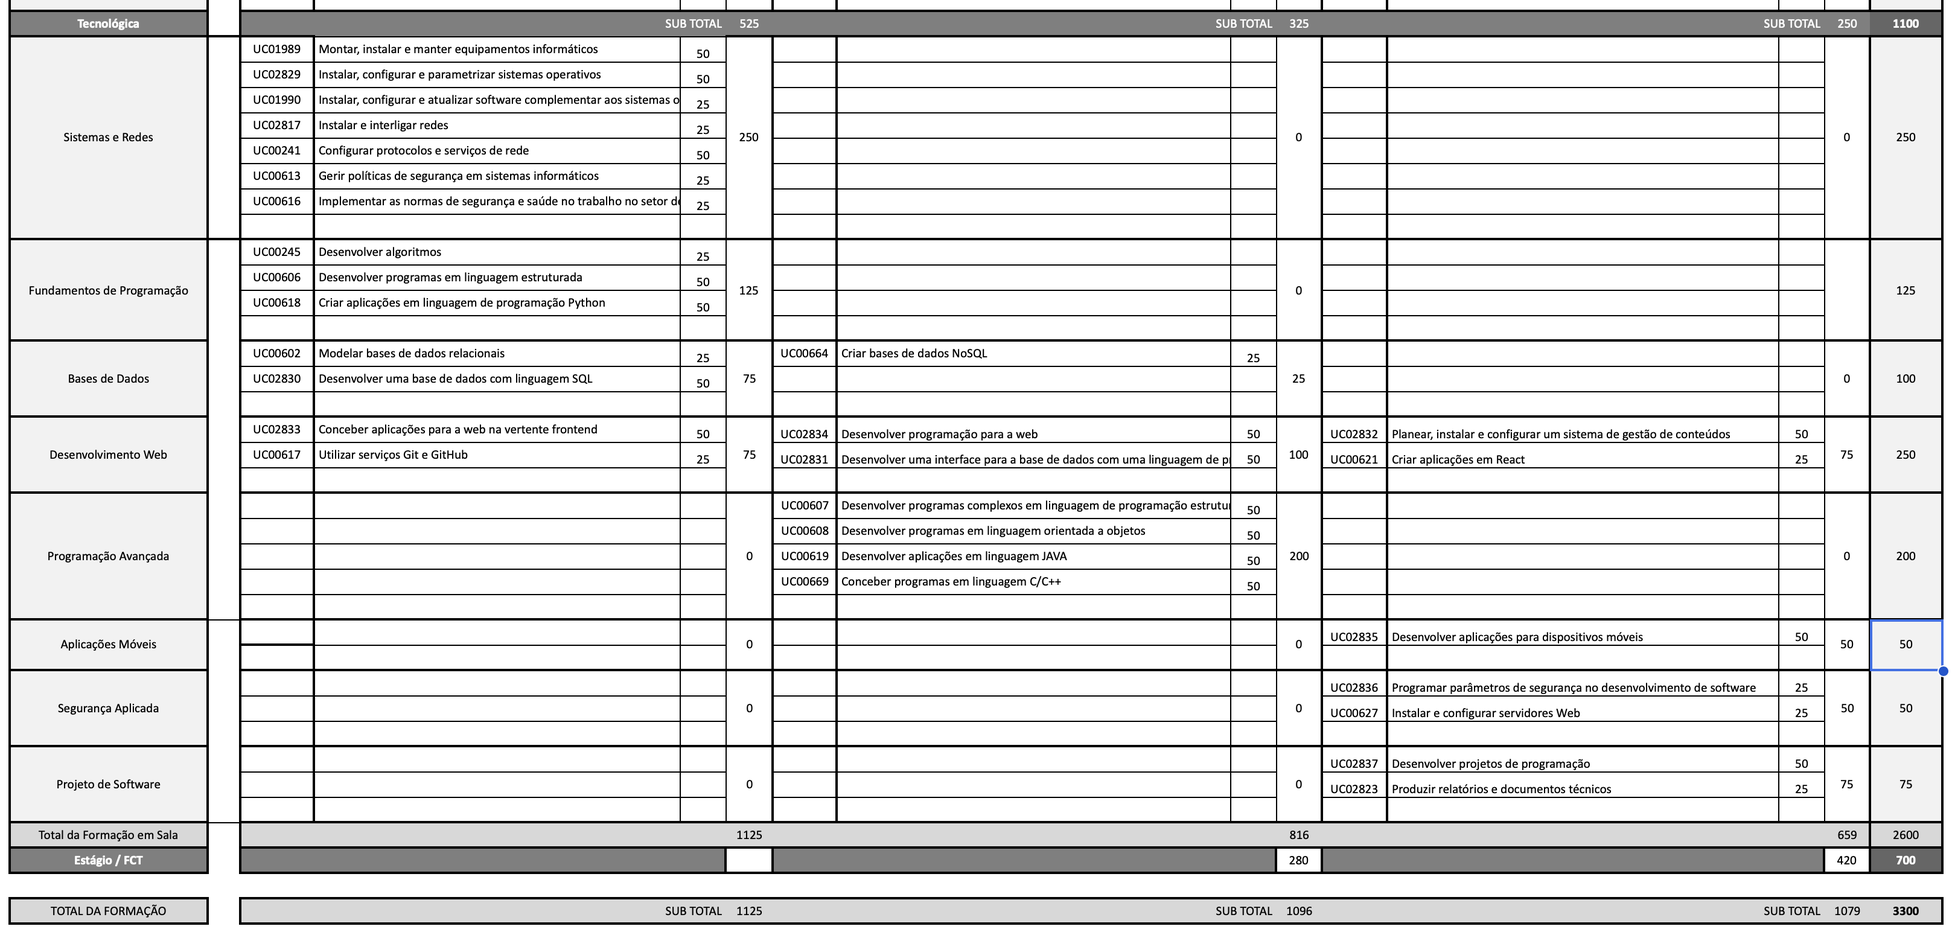
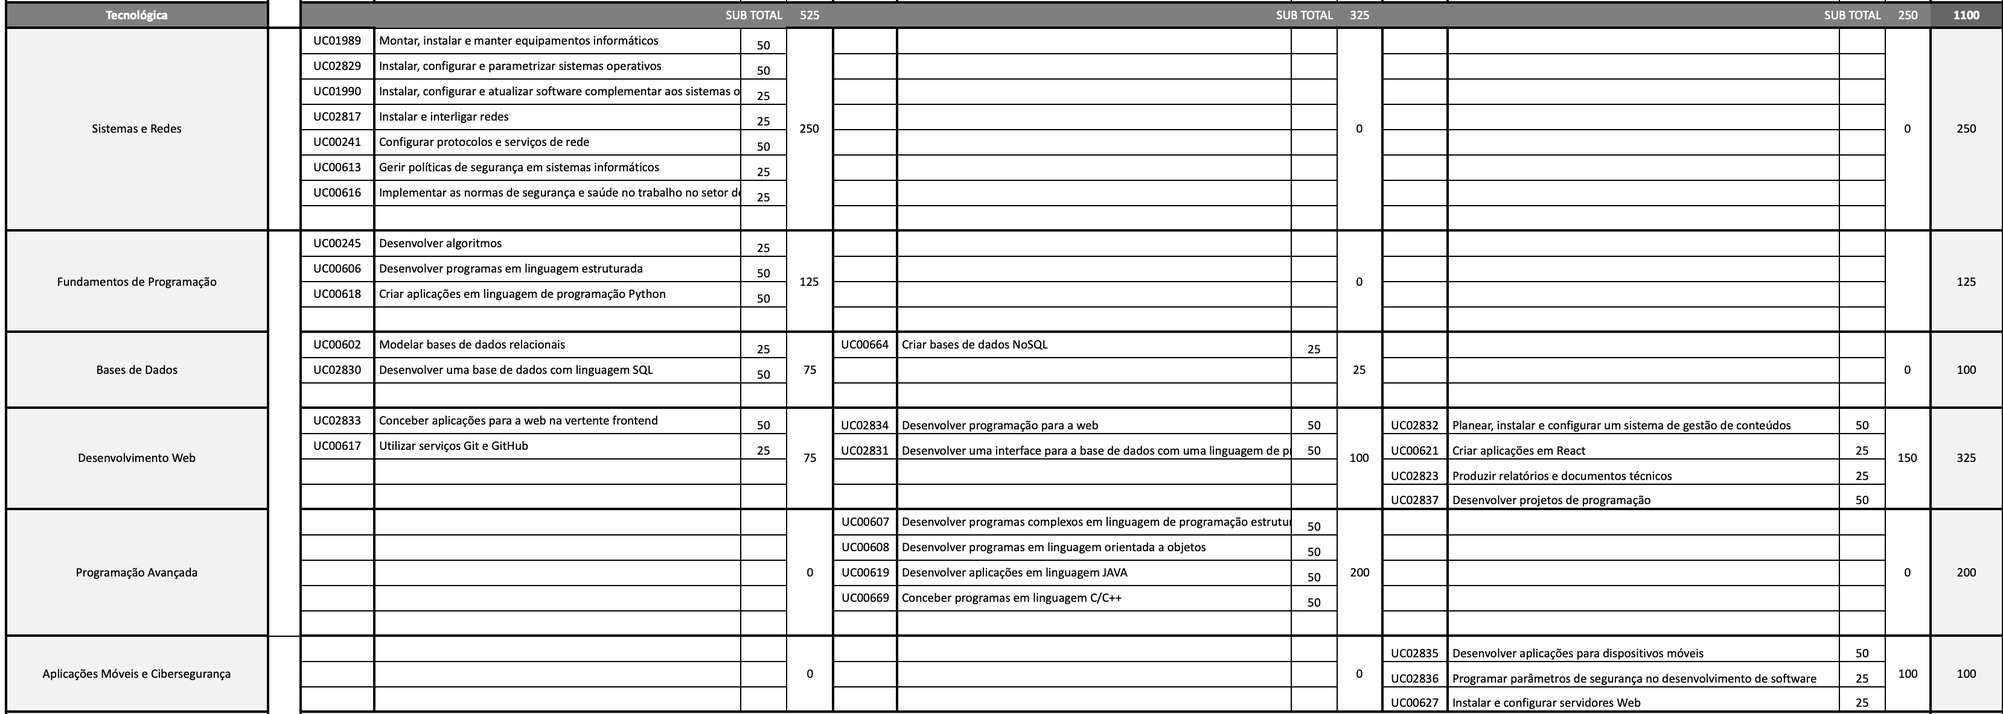
Update: Redução de disciplinas

Changed region(s): [[0.0, 0.0, 1.0, 1.0], [0.0312, 0.125, 0.0937, 0.1875]]

diff --git a/README.md b/README.md
@@ -33,21 +33,19 @@
 
 ## 3. Estrutura final proposta
 
-### 3.1) Visão global das 8 disciplinas novas
+### 3.1) Visão global das 6 disciplinas novas
 
 > Estas disciplinas vão substituir as atuais disciplinas de Programador de Informática.
 
-|        Nº | Disciplina                 | Horas totais | Sugestão de Professor \*      | Observação                                                          |
-| --------: | -------------------------- | -----------: | ----------------------------- | ------------------------------------------------------------------- |
-|         1 | Sistemas e Redes           |          250 | João Paulo                    | Disciplina apenas do 1.º ano, concentrando a base técnica           |
-|         2 | Fundamentos de Programação |          125 | Nuno Castro                   | Entrada progressiva em algoritmia e programação                     |
-|         3 | Bases de Dados             |          100 | Paulo Nabais / Carlos Coimbra | Disciplina vertical entre 1.º e 2.º ano                             |
-|         4 | Desenvolvimento Web        |          250 | Nuno Castro                   | Disciplina vertical entre 1.º, 2.º e 3.º ano                        |
-|         5 | Programação Avançada       |          200 | Nuno Castro                   | Consolidação de programação estruturada avançada, POO, Java e C/C++ |
-|         6 | Aplicações Móveis          |           50 | Paulo Nabais / Carlos Coimbra | Área autónoma no 3.º ano                                            |
-|         7 | Segurança Aplicada         |           50 | Nuno Castro                   | Codificação segura, publicação e operação web                       |
-|         8 | Projeto de Software        |           75 | Nuno Castro                   | Fecho do curso com projeto e documentação                           |
-| **Total** |                            |     **1100** |                               |                                                                     |
+|        Nº | Disciplina                                  | Horas totais | Sugestão de Professor \*      | Observação                                                          |
+| --------: | ------------------------------------------- | -----------: | ----------------------------- | ------------------------------------------------------------------- |
+|         1 | Sistemas e Redes                            |          250 | João Paulo                    | Disciplina apenas do 1.º ano, concentrando a base técnica           |
+|         2 | Fundamentos de Programação                  |          125 | Nuno Castro                   | Entrada progressiva em algoritmia e programação                     |
+|         3 | Bases de Dados                              |          100 | Paulo Nabais / Carlos Coimbra | Disciplina vertical entre 1.º e 2.º ano                             |
+|         4 | Desenvolvimento Web                         |          325 | Nuno Castro                   | Disciplina vertical entre 1.º, 2.º e 3.º ano, incluindo projeto     |
+|         5 | Programação Avançada                        |          200 | Nuno Castro                   | Consolidação de programação estruturada avançada, POO, Java e C/C++ |
+|         6 | Desenvolvimento Mobile e Segurança Aplicada |          100 | Nuno Castro                   | Especialização final em mobile, segurança e operação web            |
+| **Total** |                                             |     **1100** |                               |                                                                     |
 
 **\* Nota:** A Sugestão de Professor é feita com base nas disciplinas dadas no Curso de Programador de Informática.
 
@@ -55,7 +53,7 @@
 
 | Indicador               | Valor |
 | ----------------------- | ----: |
-| Nº total de disciplinas |     8 |
+| Nº total de disciplinas |     6 |
 | Nº total de UC          |    28 |
 | Horas totais            |  1100 |
 
@@ -84,13 +82,11 @@
 
 ### 4.3) 3.º ano - 250 horas
 
-| Disciplina          | Horas no ano |
-| ------------------- | -----------: |
-| Desenvolvimento Web |           75 |
-| Aplicações Móveis   |           50 |
-| Segurança Aplicada  |           50 |
-| Projeto de Software |           75 |
-| **Total**           |      **250** |
+| Disciplina                                  | Horas no ano |
+| ------------------------------------------- | -----------: |
+| Desenvolvimento Web                         |          150 |
+| Desenvolvimento Mobile e Segurança Aplicada |          100 |
+| **Total**                                   |      **250** |
 
 ---
 
@@ -156,11 +152,11 @@ O uso de **Python** no 1.º ano permite uma entrada mais acessível e didática,
 
 ### 5.4) Desenvolvimento Web
 
-- **Horas:** 250h
+- **Horas:** 325h
 - **Ano:** 1.º, 2.º e 3.º anos
-- **Objectivo:** Criar um eixo vertical de desenvolvimento web ao longo dos três anos, começando no front-end, avançando para programação web e integração com bases de dados, e fechando com CMS e React.
-- **Área da Disciplina:** Programação e desenvolvimento Web. Integração de Sistemas
-- **Descrição:** Disciplina vertical de desenvolvimento aplicacional orientada à web, cobrindo front-end, programação web, integração com bases de dados e gestão/publicação de conteúdos. Incorpora UC opcionais de Git/GitHub e React, reforçando práticas de colaboração e desenvolvimento front-end moderno.
+- **Objectivo:** Criar um eixo vertical de desenvolvimento web ao longo dos três anos, começando no front-end, avançando para programação web e integração com bases de dados, e fechando com CMS, React, projeto final e documentação técnica.
+- **Área da Disciplina:** Programação e desenvolvimento Web. Integração de Sistemas. Projeto aplicacional e documentação técnica
+- **Descrição:** Disciplina vertical de desenvolvimento aplicacional orientada à web, cobrindo front-end, programação web, integração com bases de dados, gestão/publicação de conteúdos, React, execução de projeto final e produção de documentação técnica. Incorpora UC opcionais de Git/GitHub e React, reforçando práticas de colaboração e desenvolvimento front-end moderno.
 
 | Ano       | Código             | UC                                                                              |   Horas |
 | --------- | ------------------ | ------------------------------------------------------------------------------- | ------: |
@@ -170,7 +166,9 @@ O uso de **Python** no 1.º ano permite uma entrada mais acessível e didática,
 | 2.º       | UC02831            | Desenvolver uma interface para a base de dados com uma linguagem de programação |      50 |
 | 3.º       | UC02832            | Planear, instalar e configurar um sistema de gestão de conteúdos                |      50 |
 | 3.º       | UC00621 (Opcional) | Criar aplicações em React                                                       |      25 |
-| **Total** |                    |                                                                                 | **250** |
+| 3.º       | UC02837            | Desenvolver projetos de programação                                             |      50 |
+| 3.º       | UC02823            | Produzir relatórios e documentos técnicos                                       |      25 |
+| **Total** |                    |                                                                                 | **325** |
 
 ---
 
@@ -192,99 +190,78 @@ O uso de **Python** no 1.º ano permite uma entrada mais acessível e didática,
 
 ---
 
-### 5.6) Aplicações Móveis
+### 5.6) Desenvolvimento Mobile e Segurança Aplicada
 
-- **Horas:** 50h
+- **Horas:** 100h
 - **Ano:** 3.º ano
-- **Objectivo:** Introdução ao desenvolvimento de aplicações móveis, para que os alunos tenham uma visão mais completa do desenvolvimento de software e possam explorar esta área em crescimento.
-- **Área da Disciplina:** Desenvolvimento Mobile (pode ser teórico ou teórico-prático uma vez que 50 horas é pouco para prática)
-- **Descrição:** Disciplina especializada do 3.º ano orientada para desenvolvimento de aplicações móveis, em linha com a UC obrigatória do referencial. Amplia o perfil do aluno para contextos multiplataforma e reforça a capacidade de adaptação a diferentes interfaces e dispositivos.
+- **Objectivo:** Concentrar competências finais de desenvolvimento mobile, segurança aplicada ao desenvolvimento de software e configuração de servidores web.
+- **Área da Disciplina:** Desenvolvimento Mobile, Cibersegurança Aplicada ao Desenvolvimento e Operação Web
+- **Descrição:** Disciplina especializada do 3.º ano, orientada para desenvolvimento de aplicações móveis e reforço de práticas de segurança no ciclo de desenvolvimento e publicação. Combina mobile, codificação segura e configuração de servidores web, aproximando o plano de contextos reais de desenvolvimento, entrega e operação de software.
 
-| Ano       | Código  | UC                                              |  Horas |
-| --------- | ------- | ----------------------------------------------- | -----: |
-| 3.º       | UC02835 | Desenvolver aplicações para dispositivos móveis |     50 |
-| **Total** |         |                                                 | **50** |
-
----
-
-### 5.7) Segurança Aplicada
-
-- **Horas:** 50h
-- **Ano:** 3.º ano
-- **Objectivo:** Trabalhar segurança no desenvolvimento de software e no contexto de publicação/operação de aplicações web.
-- **Área da Disciplina:** Programação, Cibersegurança Aplicada ao Desenvolvimento
-- **Descrição:** Disciplina focada em segurança aplicada, combinando práticas de codificação segura com configuração de servidores web. Responde às UC do referencial ligadas a segurança no ciclo de desenvolvimento e operação, aproximando o plano de exigências reais de produção.
-
-| Ano       | Código             | UC                                                               |  Horas |
-| --------- | ------------------ | ---------------------------------------------------------------- | -----: |
-| 3.º       | UC02836            | Programar parâmetros de segurança no desenvolvimento de software |     25 |
-| 3.º       | UC00627 (Opcional) | Instalar e configurar servidores Web                             |     25 |
-| **Total** |                    |                                                                  | **50** |
-
----
-
-### 5.8) Projeto de Software
-
-**Nota:** Optei por colocar o projeto (e a documentação) numa disciplina à parte para que o projeto não seja "contaminado" pela disciplina onde fosse inserido. Por exemplo, se fosse inserido na disciplina de Desenvolvimento Web, o projeto poderia ser visto como um projeto de desenvolvimento web, o que não é necessariamente o caso. Ou se fosse inserido na disciplina de Programação Avançada, poderia ser visto como um projeto de programação pura, o que também não é necessariamente o caso. Limitaria a visão do projeto a um domínio específico, o que não é desejável. Assim, a disciplina de Projeto de Software pode ser mais transversal e permitir projetos mais variados, além de dar um enfoque específico à documentação técnica, que é uma competência importante a evidenciar.
-
-- **Horas:** 75h
-- **Ano:** 3.º ano
-- **Objectivo:** Fechar o curso com projeto, integração de competências e produção de documentação técnica adequada ao contexto profissional.
-- **Área da Disciplina:** Projeto de Software
-- **Descrição:** Disciplina de fecho do percurso, com enfoque em execução de projeto de programação e comunicação técnica formal. Está alinhada com o referencial ao assegurar evidência integrada de competências técnicas e de documentação profissional.
-
-| Ano       | Código  | UC                                        |  Horas |
-| --------- | ------- | ----------------------------------------- | -----: |
-| 3.º       | UC02837 | Desenvolver projetos de programação       |     50 |
-| 3.º       | UC02823 | Produzir relatórios e documentos técnicos |     25 |
-| **Total** |         |                                           | **75** |
+| Ano       | Código             | UC                                                               |   Horas |
+| --------- | ------------------ | ---------------------------------------------------------------- | ------: |
+| 3.º       | UC02835            | Desenvolver aplicações para dispositivos móveis                  |      50 |
+| 3.º       | UC02836            | Programar parâmetros de segurança no desenvolvimento de software |      25 |
+| 3.º       | UC00627 (Opcional) | Instalar e configurar servidores Web                             |      25 |
+| **Total** |                    |                                                                  | **100** |
 
 ---
 
 ## 6. Tabela global de mapeamento UC → ano → disciplina
 
-| Código  | UC                                                                              | Horas | Ano | Disciplina proposta        |
-| ------- | ------------------------------------------------------------------------------- | ----: | --- | -------------------------- |
-| UC01989 | Montar, instalar e manter equipamentos informáticos                             |    50 | 1.º | Sistemas e Redes           |
-| UC02829 | Instalar, configurar e parametrizar sistemas operativos                         |    50 | 1.º | Sistemas e Redes           |
-| UC01990 | Instalar, configurar e atualizar software complementar aos sistemas operativos  |    25 | 1.º | Sistemas e Redes           |
-| UC02817 | Instalar e interligar redes                                                     |    25 | 1.º | Sistemas e Redes           |
-| UC00241 | Configurar protocolos e serviços de rede                                        |    50 | 1.º | Sistemas e Redes           |
-| UC00613 | Gerir políticas de segurança em sistemas informáticos                           |    25 | 1.º | Sistemas e Redes           |
-| UC00616 | Implementar as normas de segurança e saúde no trabalho no setor de Informática  |    25 | 1.º | Sistemas e Redes           |
-| UC00245 | Desenvolver algoritmos                                                          |    25 | 1.º | Fundamentos de Programação |
-| UC00606 | Desenvolver programas em linguagem estruturada                                  |    50 | 1.º | Fundamentos de Programação |
-| UC00618 | Criar aplicações em linguagem de programação Python                             |    50 | 1.º | Fundamentos de Programação |
-| UC00602 | Modelar bases de dados relacionais                                              |    25 | 1.º | Bases de Dados             |
-| UC02830 | Desenvolver uma base de dados com linguagem SQL                                 |    50 | 1.º | Bases de Dados             |
-| UC02833 | Conceber aplicações para a web na vertente frontend                             |    50 | 1.º | Desenvolvimento Web        |
-| UC00617 | Utilizar serviços Git e GitHub                                                  |    25 | 1.º | Desenvolvimento Web        |
-| UC00607 | Desenvolver programas complexos em linguagem de programação estruturada         |    50 | 2.º | Programação Avançada       |
-| UC00608 | Desenvolver programas em linguagem orientada a objetos                          |    50 | 2.º | Programação Avançada       |
-| UC00619 | Desenvolver aplicações em linguagem JAVA                                        |    50 | 2.º | Programação Avançada       |
-| UC00669 | Conceber programas em linguagem C/C++                                           |    50 | 2.º | Programação Avançada       |
-| UC00664 | Criar bases de dados NoSQL                                                      |    25 | 2.º | Bases de Dados             |
-| UC02834 | Desenvolver programação para a web                                              |    50 | 2.º | Desenvolvimento Web        |
-| UC02831 | Desenvolver uma interface para a base de dados com uma linguagem de programação |    50 | 2.º | Desenvolvimento Web        |
-| UC02832 | Planear, instalar e configurar um sistema de gestão de conteúdos                |    50 | 3.º | Desenvolvimento Web        |
-| UC00621 | Criar aplicações em React                                                       |    25 | 3.º | Desenvolvimento Web        |
-| UC02835 | Desenvolver aplicações para dispositivos móveis                                 |    50 | 3.º | Aplicações Móveis          |
-| UC02836 | Programar parâmetros de segurança no desenvolvimento de software                |    25 | 3.º | Segurança Aplicada         |
-| UC00627 | Instalar e configurar servidores Web                                            |    25 | 3.º | Segurança Aplicada         |
-| UC02837 | Desenvolver projetos de programação                                             |    50 | 3.º | Projeto de Software        |
-| UC02823 | Produzir relatórios e documentos técnicos                                       |    25 | 3.º | Projeto de Software        |
+| Código  | UC                                                                              | Horas | Ano | Disciplina proposta                         |
+| ------- | ------------------------------------------------------------------------------- | ----: | --- | ------------------------------------------- |
+| UC01989 | Montar, instalar e manter equipamentos informáticos                             |    50 | 1.º | Sistemas e Redes                            |
+| UC02829 | Instalar, configurar e parametrizar sistemas operativos                         |    50 | 1.º | Sistemas e Redes                            |
+| UC01990 | Instalar, configurar e atualizar software complementar aos sistemas operativos  |    25 | 1.º | Sistemas e Redes                            |
+| UC02817 | Instalar e interligar redes                                                     |    25 | 1.º | Sistemas e Redes                            |
+| UC00241 | Configurar protocolos e serviços de rede                                        |    50 | 1.º | Sistemas e Redes                            |
+| UC00613 | Gerir políticas de segurança em sistemas informáticos                           |    25 | 1.º | Sistemas e Redes                            |
+| UC00616 | Implementar as normas de segurança e saúde no trabalho no setor de Informática  |    25 | 1.º | Sistemas e Redes                            |
+| UC00245 | Desenvolver algoritmos                                                          |    25 | 1.º | Fundamentos de Programação                  |
+| UC00606 | Desenvolver programas em linguagem estruturada                                  |    50 | 1.º | Fundamentos de Programação                  |
+| UC00618 | Criar aplicações em linguagem de programação Python                             |    50 | 1.º | Fundamentos de Programação                  |
+| UC00602 | Modelar bases de dados relacionais                                              |    25 | 1.º | Bases de Dados                              |
+| UC02830 | Desenvolver uma base de dados com linguagem SQL                                 |    50 | 1.º | Bases de Dados                              |
+| UC02833 | Conceber aplicações para a web na vertente frontend                             |    50 | 1.º | Desenvolvimento Web                         |
+| UC00617 | Utilizar serviços Git e GitHub                                                  |    25 | 1.º | Desenvolvimento Web                         |
+| UC00607 | Desenvolver programas complexos em linguagem de programação estruturada         |    50 | 2.º | Programação Avançada                        |
+| UC00608 | Desenvolver programas em linguagem orientada a objetos                          |    50 | 2.º | Programação Avançada                        |
+| UC00619 | Desenvolver aplicações em linguagem JAVA                                        |    50 | 2.º | Programação Avançada                        |
+| UC00669 | Conceber programas em linguagem C/C++                                           |    50 | 2.º | Programação Avançada                        |
+| UC00664 | Criar bases de dados NoSQL                                                      |    25 | 2.º | Bases de Dados                              |
+| UC02834 | Desenvolver programação para a web                                              |    50 | 2.º | Desenvolvimento Web                         |
+| UC02831 | Desenvolver uma interface para a base de dados com uma linguagem de programação |    50 | 2.º | Desenvolvimento Web                         |
+| UC02832 | Planear, instalar e configurar um sistema de gestão de conteúdos                |    50 | 3.º | Desenvolvimento Web                         |
+| UC00621 | Criar aplicações em React                                                       |    25 | 3.º | Desenvolvimento Web                         |
+| UC02837 | Desenvolver projetos de programação                                             |    50 | 3.º | Desenvolvimento Web                         |
+| UC02823 | Produzir relatórios e documentos técnicos                                       |    25 | 3.º | Desenvolvimento Web                         |
+| UC02835 | Desenvolver aplicações para dispositivos móveis                                 |    50 | 3.º | Desenvolvimento Mobile e Segurança Aplicada |
+| UC02836 | Programar parâmetros de segurança no desenvolvimento de software                |    25 | 3.º | Desenvolvimento Mobile e Segurança Aplicada |
+| UC00627 | Instalar e configurar servidores Web                                            |    25 | 3.º | Desenvolvimento Mobile e Segurança Aplicada |
 
 ---
 
 ## 7. Plano Curricular Proposto
 
-![Plano curricular proposto](./images/plano_curricular.png)
-
-[Ver plano curricular proposto](https://docs.google.com/spreadsheets/d/1VuvWeRKOqQLfXATec_sINFAli3lMwHyD/edit?usp=share_link&ouid=106815911914090637978&rtpof=true&sd=true)
+| Disciplina                                  | 1.º ano | 2.º ano | 3.º ano |    Total |
+| ------------------------------------------- | ------: | ------: | ------: | -------: |
+| Sistemas e Redes                            |     250 |       0 |       0 |      250 |
+| Fundamentos de Programação                  |     125 |       0 |       0 |      125 |
+| Bases de Dados                              |      75 |      25 |       0 |      100 |
+| Desenvolvimento Web                         |      75 |     100 |     150 |      325 |
+| Programação Avançada                        |       0 |     200 |       0 |      200 |
+| Desenvolvimento Mobile e Segurança Aplicada |       0 |       0 |     100 |      100 |
+| **Total**                                   | **525** | **325** | **250** | **1100** |
 
 ---
 
 ## 8. Changelog
+
+- **25-05-2026:**
+    - Redução da estrutura final de 8 para 6 disciplinas, mantendo as 1100 horas e a distribuição anual.
+    - Integração das UC de projeto e documentação técnica em Desenvolvimento Web.
+    - Fusão de Aplicações Móveis e Segurança Aplicada numa disciplina única de 3.º ano.
 
 - **08-04-2026:**
     - Inserção de tabela global de mapeamento UC → ano → disciplina.
